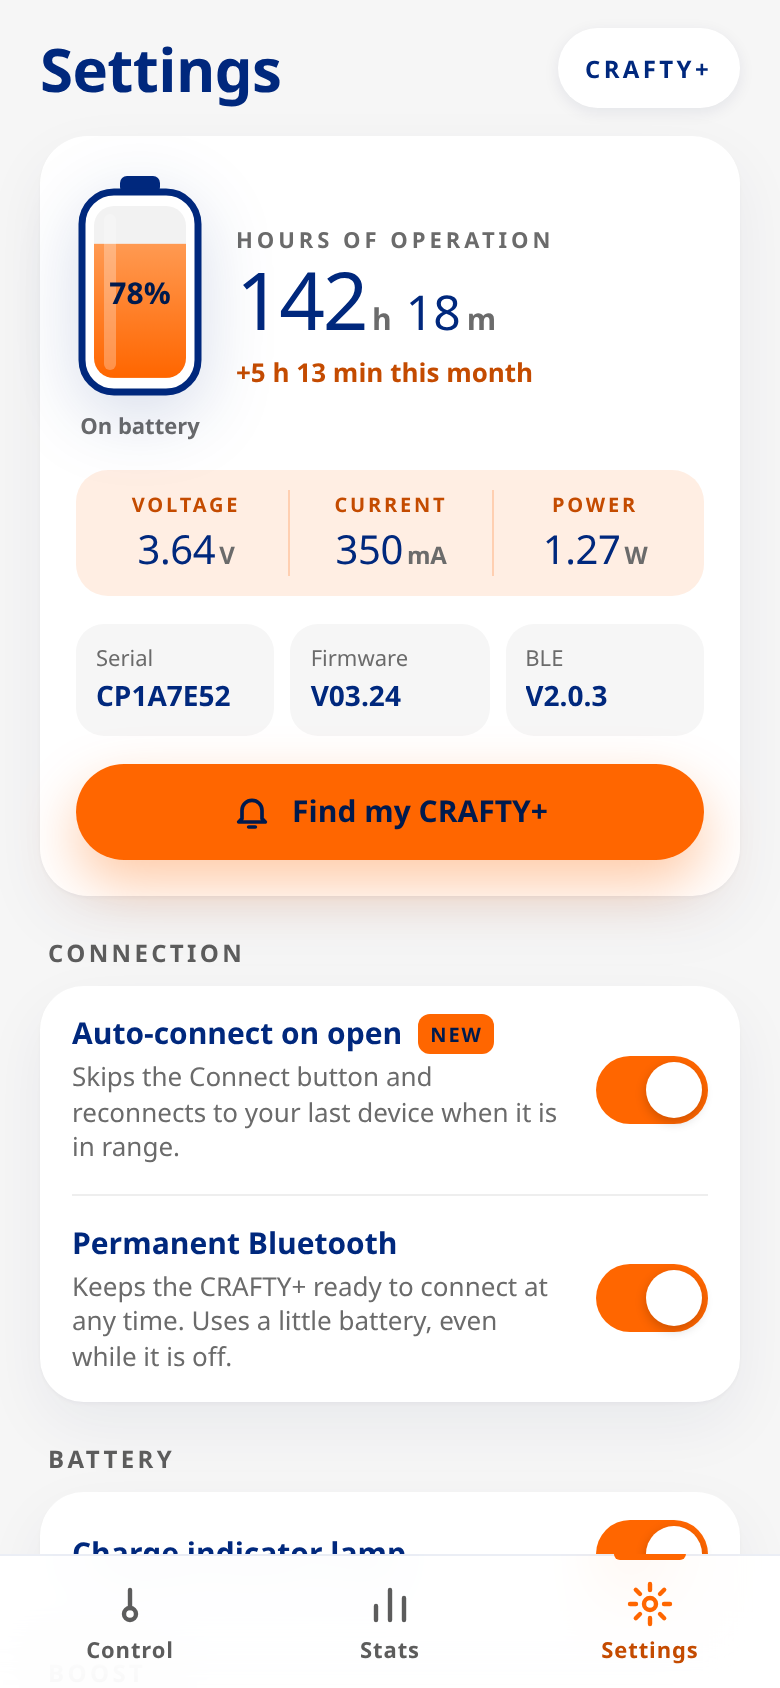
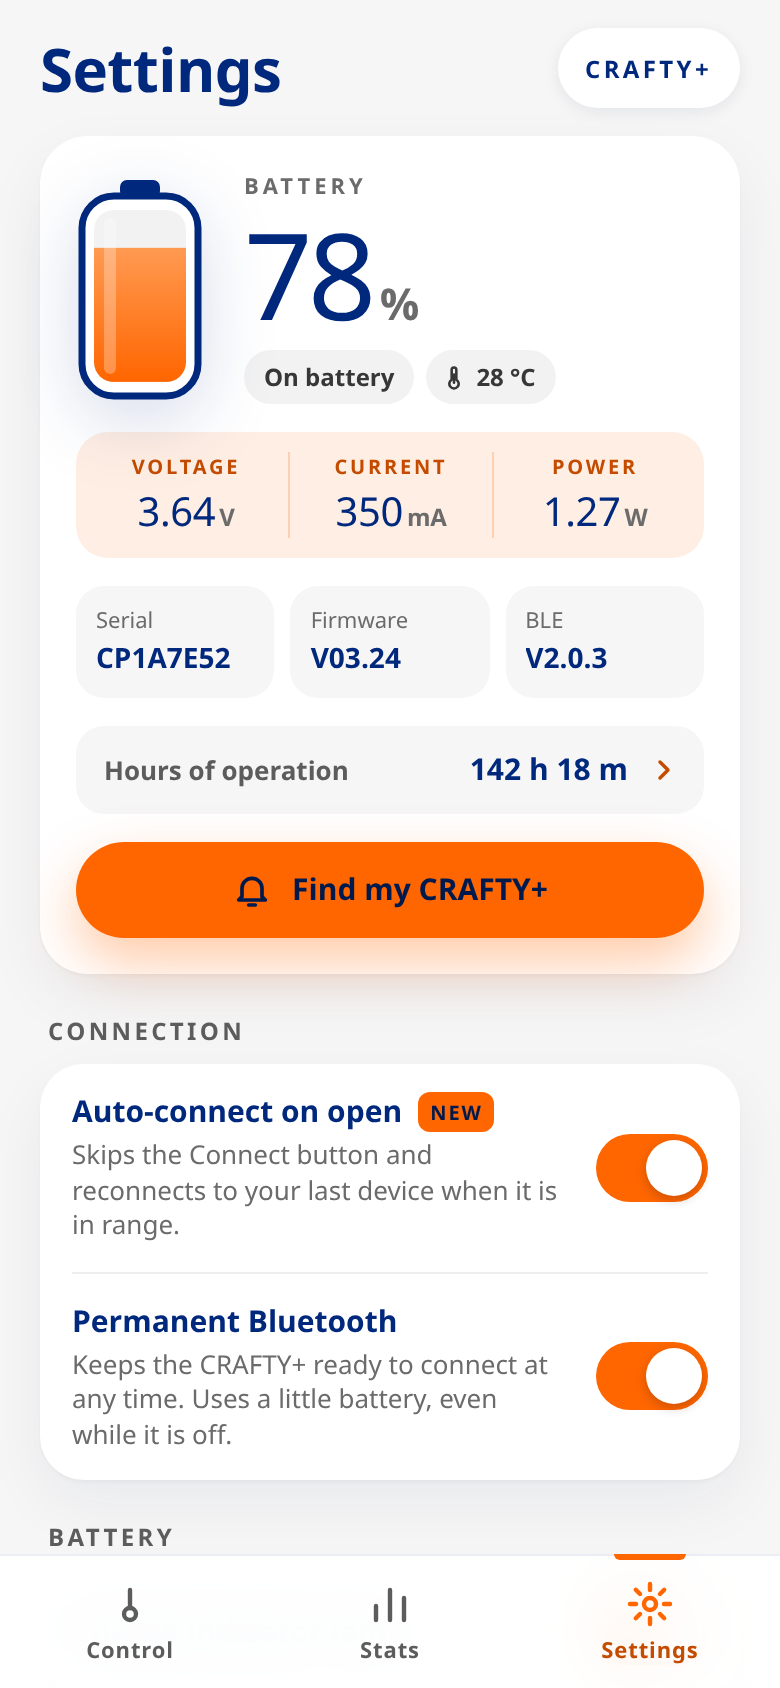
README: Settings screenshot with the battery first, battery temperature and too hot in the features

diff --git a/README.md b/README.md
@@ -45,14 +45,16 @@ VENTY · VEAZY · CRAFTY · CRAFTY+ · VOLCANO HYBRID
   with usage per month.
 - 📊 **Stats.** A tab with each session as a chart (temperature against the target, Ready, boosts
   and the cool-down) and its facts, hours of operation by day, week or month, and a timeline of
-  every session Glow saw. Tapping Hours of operation on the dashboard opens it.
+  every session Glow saw. Tapping Hours of operation on the dashboard or in Settings opens it.
 - 🌙 **Records in the background** (Android 12+, off until you switch it on in Settings). Android
   wakes Glow when the device comes into range, Glow connects and logs the session with the app
   closed (with a notification while it does), and the next time you open Glow the session is in
   Stats as if you had watched it. If Android's battery optimization could stop it, Settings says
   so and opens the battery settings.
-- 🔋 **Battery.** Level, charging and charged, with the charge animating up to full. A VENTY or
-  VEAZY also shows its lifetime time on the charger.
+- 🔋 **Battery.** Leads Settings: a large percentage, shown while charging too, whether it is on
+  battery, charging or charged, with the charge animating up to full. A CRAFTY+ also shows the battery
+  temperature and warns when the battery is too hot to heat; a VENTY or VEAZY shows its lifetime
+  time on the charger.
 - 🌋 **VOLCANO workflows.** Flow 1–3 and Balloon run from the phone, step by step, with time
   running and time left.
 - ⚙ **Settings.** Every device setting the official web app offers, plus Find My and the
